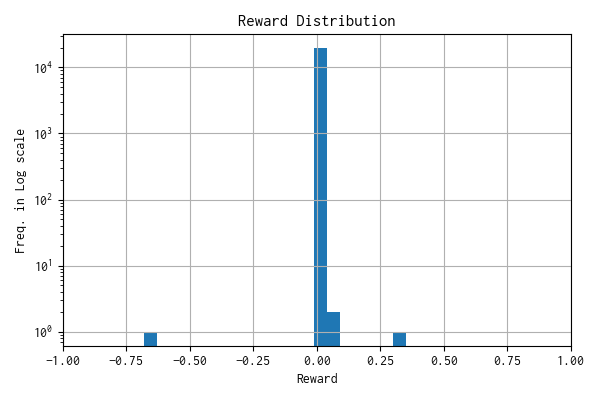
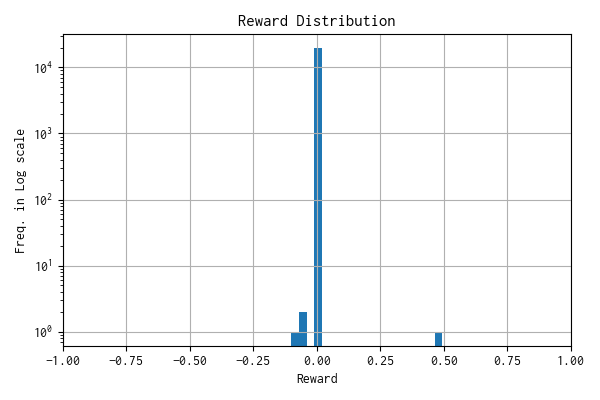
update

diff --git a/modules/env.py b/modules/env.py
@@ -124,14 +124,12 @@ class TransactionManager:
                 # =============================================================
                 profit = self.get_profit(price)
                 reward += self.get_reward_from_profit(profit) * self.ratio_unrealized_profit
-                if self.position == PositionType.LONG:
+                if profit > 0:
                     self.count_unreal_profit += 1
                     reward += self.count_unreal_profit * self.ratio_unreal_profit
-                elif self.position == PositionType.SHORT:
+                elif profit < 0:
                     self.count_unreal_profit += 1
                     reward -= self.count_unreal_profit * self.ratio_unreal_profit
-                else:
-                    self.count_unreal_profit = 0
 
             elif action_type == ActionType.BUY:
                 # 取引ルール違反
